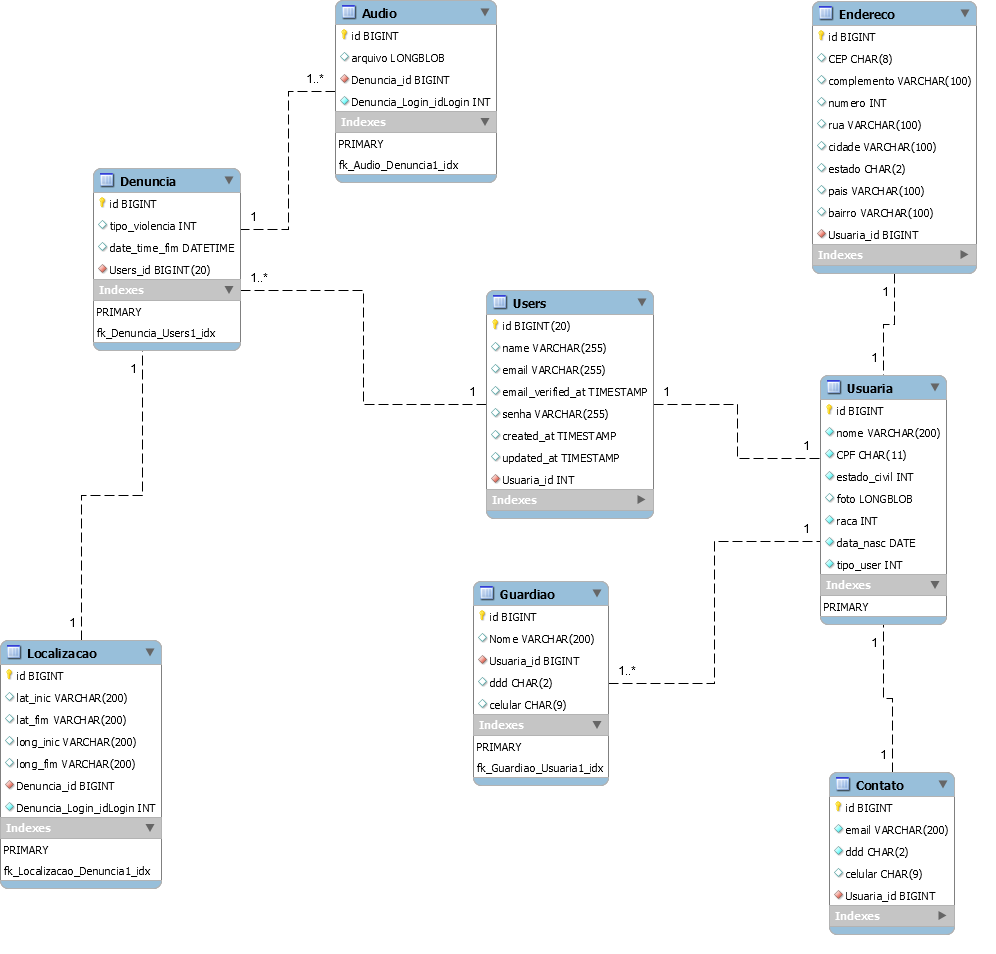
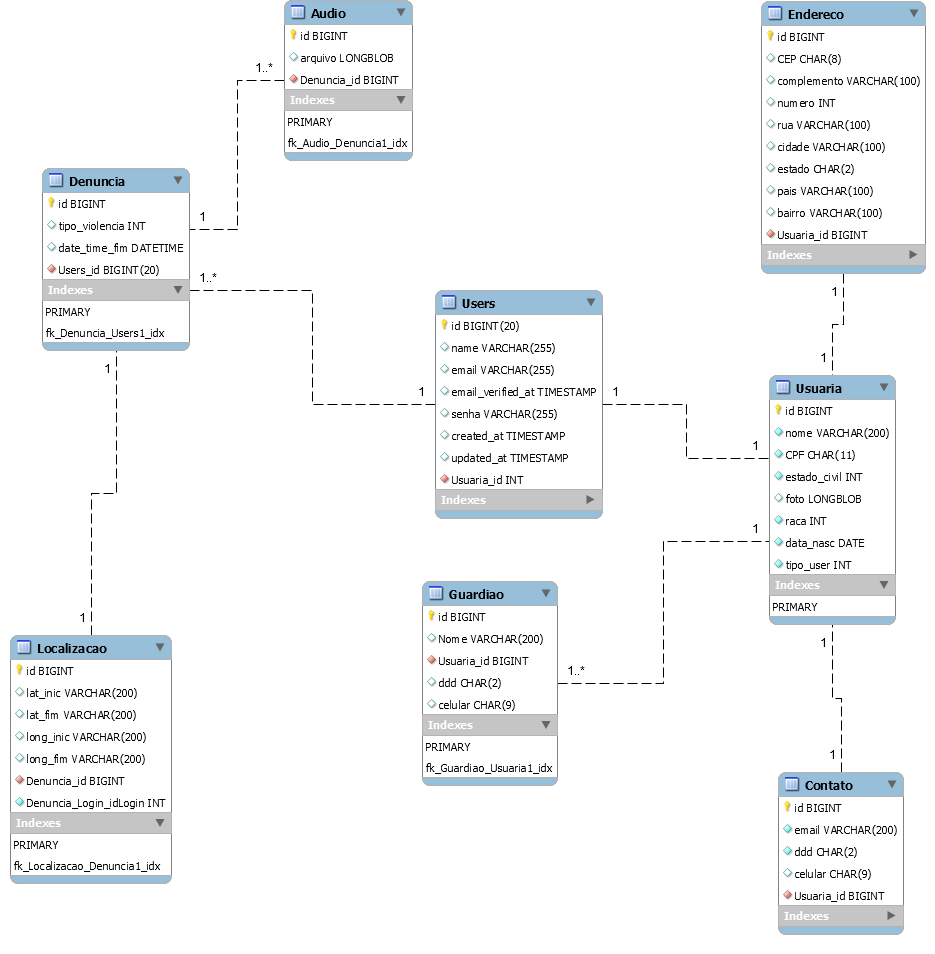
vamo que vamo

diff --git a/resources/views/cadastrar_guardiao.blade.php b/resources/views/cadastrar_guardiao.blade.php
@@ -26,10 +26,8 @@
                         </div>
 
 
-                        <input type="hidden" id= 'idUsuaria' name="idUsuaria" value="{{ session('id') }}"> 
-
                         <div class="form-group row">
-                            <label for="celular" class="col-md-4 col-form-label text-md-right">{{ __('DDD') }}</label>
+                            <label for="ddd" class="col-md-4 col-form-label text-md-right">{{ __('DDD') }}</label>
 
                             <div class="col-md-6">
                                 <input id="ddd" type="number" maxlength="2" class="form-control @error('ddd') is-invalid @enderror" name="ddd" value="{{ old('ddd') }}" required autocomplete="celular" autofocus>
@@ -58,12 +56,23 @@
 
                         <input type="hidden" id= 'idUsuaria' name="idUsuaria" value="{{ session('id') }}"> 
 
+     
                         <div class="form-group row mb-0">
                             <div class="col-md-6 offset-md-4">
+                            @if($botao == 0)
                                 <button type="submit" class="btn btn-primary">
-                                    {{ __('Cadastrar') }}
+                                    {{ __('Cadastrar + Guardiões') }}
                                 </button>
+                            @else
+                                <button type="button" class="btn btn-primary">
+                                    <a href="{{route('register')}}" style="text-decoration:none; color:white;">
+                                    {{ __('Próximo passo') }}
+                                    </a>
+                                </button>
+
+                            @endif
                             </div>
+                           
                         </div>
                     </form>
                 </div>

diff --git a/app/Http/Controllers/GuardiaoController.php b/app/Http/Controllers/GuardiaoController.php
@@ -33,7 +33,7 @@ class GuardiaoController extends Controller
      */
     public function create()
     {
-        return view('cadastrar_guardiao.blade.php');
+        return view('cadastrar_guardiao');
     }
 
     /**
@@ -42,9 +42,19 @@ class GuardiaoController extends Controller
      * @param  \Illuminate\Http\Request  $request
      * @return \Illuminate\Http\Response
      */
-    public function store(Request $request)
+    public function store(Request $request, Guardiao $guardiao)
     {
-        //
+        if(Guardiao::all()->where('idUsuaria', session('id'))->count()<=3){
+            $dataform4 = $request->all();
+            $insert4 = $guardiao->create($dataform4);
+            $insert4->save();
+            $botao = 0;
+            return view ('cadastrar_guardiao', compact('botao', $botao) );
+        }
+        else{
+            $botao = 1;
+            return view ('cadastrar_guardiao', compact('botao', $botao));
+        }
     }
 
     /**
@@ -66,7 +76,7 @@ class GuardiaoController extends Controller
      */
     public function edit($id)
     {
-        return view('editar_guardiao.blade.php');
+        return view('editar_guardiao');
     }
 
     /**

diff --git a/resources/views/home.blade.php b/resources/views/home.blade.php
@@ -52,6 +52,12 @@
       <a class="nav-link btn btn-outline-danger" style="color: black; margin-bottom:5px;" id="v-pills-settings-tab" href="#v-pills-settings" role="tab" aria-controls="v-pills-settings" aria-selected="false">Conta</a>
     </div>
   </div>
+
+  @if(Route::has('guadiao.edit'))
+  <main class="py-4">
+            @yield('content')
+  </main>
+  @else
   
   <div class="col-10">
   <button onclick="getLocation(); check()"  data-toggle="modal" data-target="#ModalDenuncia">Teste</button>
@@ -133,4 +139,5 @@
     </div>
 </div>
 -->
+@endif
 @endsection

diff --git a/app/Guardiao.php b/app/Guardiao.php
@@ -10,6 +10,8 @@ class Guardiao extends Model
     protected $fillable = [
         'id', 
         'nome',
+        'ddd',
+        'celular',
         'idUsuaria'
     ];
     public function usuaria(){

diff --git a/resources/views/editar_guardiao.blade.php b/resources/views/editar_guardiao.blade.php
@@ -1,0 +1,4 @@
+@extends('home')
+
+@section('ctt_guardiao')
+Teste
